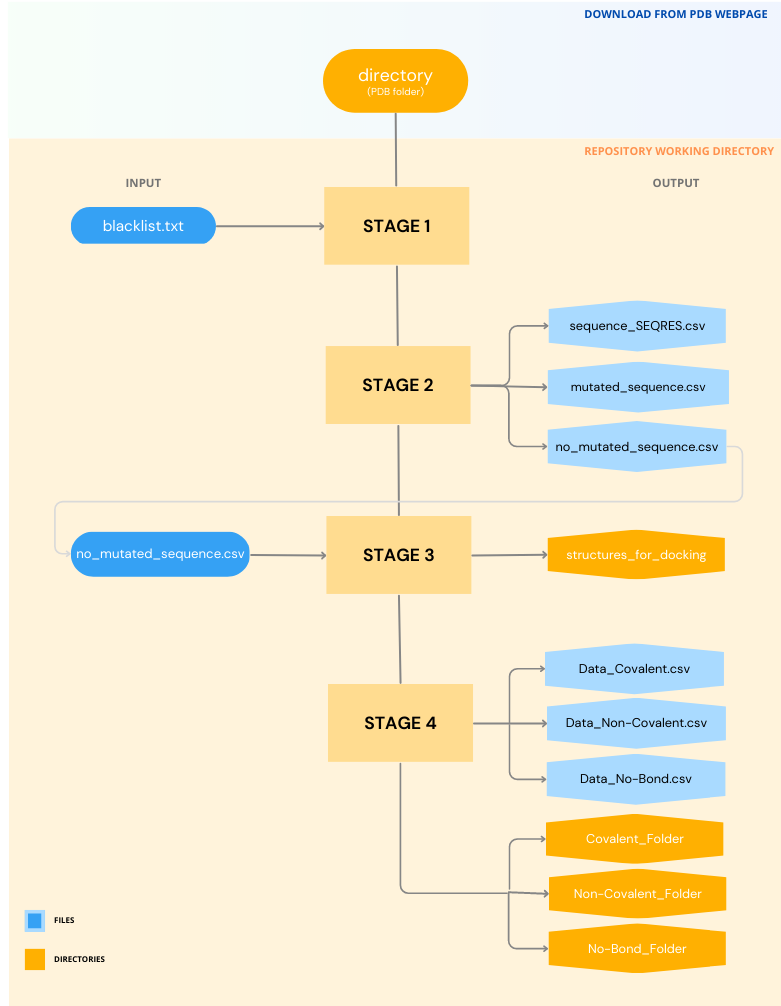
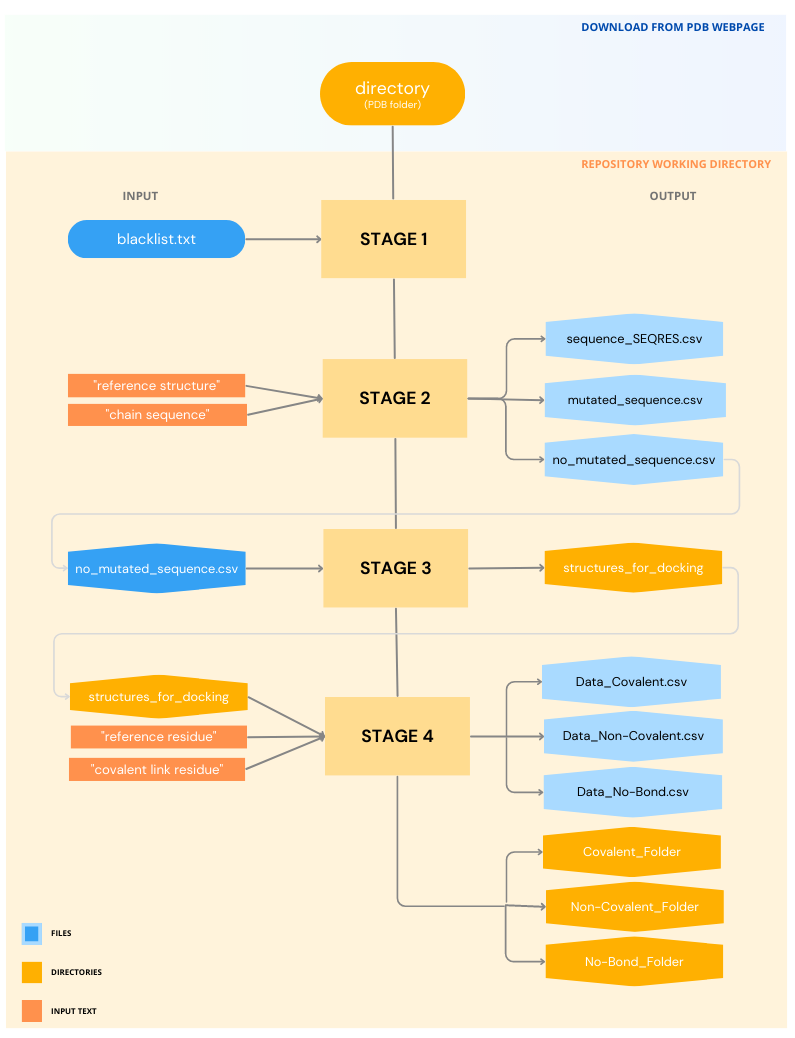
Improvements

diff --git a/README.md b/README.md
@@ -37,6 +37,18 @@ Every code cell where user needs to modify information is marked in 4 stages. In
 
 The first step before running this notebook is to search the target in https://www.rcsb.org/ webpage. It is needed to download the different structures that match our search and save them in a folder inside the repository directory. Thus to start running the code, the input files are the PDB files in the directory and the *blacklist.txt*. It is necessary to ensure that the blacklist.txt file is located in the working directory before running the program.
 
+#### Input text
+
+To run the code, we need to provide four text inputs, which are divided into two stages.
+
+In stage 2, the code requires a reference structure and its reference chain. To choose the structure, we must follow three rules: first, it should be a non-mutated structure; second, it should be part of a non-covalent complex with its ligand; and third, its length should match the target description.
+
+Moving on to stage 4, we need to provide two inputs. The first one is the reference residue found in the binding site, which has a significant interaction with the ligand. This information can be obtained during the literature search prior to virtual screening. The second input is the residue to which the covalent bonds will be attached. If we don't have any evidence of covalent bonds in the target, we can use the default line, which indicates a placeholder residue or a wildcard character. It is necessary to include this line for subsequent classification.
+
+However, if we later discover that the target has covalent bonds, we need to modify the input to ensure accurate classification.
+
+In summary, we have four inputs: reference structure and its chain, reference residue, and residue for covalent bond attachment. These inputs are required in stage 2 and stage 4, and we need to follow specific rules to select the reference structure. If we are unsure of the presence of covalent bonds, we can use the default line, but we may need to modify it later for accurate classification.
+
 ## OUTPUT
 This code consists of two main parts.
 
@@ -114,6 +126,14 @@ After the classification:
 We see three folders: Covalent_Folder(4), Non-Covalent_Folder(16) and No-Bond_Folder(3); and also, three csv with the binding information: Data_Covalent.csv, Non-Covalent_Folder.csv, Data_No-Bond.csv.
 
 ![Image URL](image_documentation/output.png)
+
+## UNCLEAR CASES
+
+There are certain cases that are unclear, such as SYNTENIN 1. The non-covalent ligands of syntenin can be small peptides that are present in PDB files as part of the protein chains, rather than as separate non-covalent bonds. On the rcsb.org website, these ligands are classified under the 'macromolecules' section. To ensure that they are not being excluded from the non-covalent classification, we will check the csv files that we obtain, specifically, the *mutated_sequence.csv* file. By examining the image, we can identify chains of 6-10 residues that are ligands in this case. 
+
+![Image URL](image_documentation/short_sequence.png)
+
+Therefore, if we find substantially small chains in our csv files, we will check if they are ligands. If they are indeed ligands, we will select the file and move it directly to the Non-Covalent_Folder directory.
 
 ## LIMITATIONS
 
